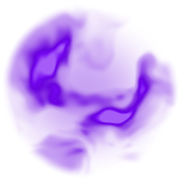
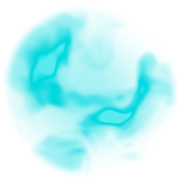
Colours: primary #00eaf1, secondary #f9f4f4, buttons #ff68b6 (Color studio)

diff --git a/app/globals.css b/app/globals.css
@@ -62,9 +62,9 @@
  * Dark-first: výchozí je tmavé téma. Slider v rohu mění --brand-h / --brand-c.
  */
 :root {
-  --brand-h: 291.9;
-  --brand-c: 0.2919;
-  --brand-l-adj: -0.2549; /* ±0.08: posun světlosti akcentu (tlačítka, výplně, glow) */
+  --brand-h: 198.7;
+  --brand-c: 0.1447;
+  --brand-l-adj: 0.0708; /* ±0.08: posun světlosti akcentu (tlačítka, výplně, glow) */
 
   --brand: oklch(calc(0.78 + var(--brand-l-adj)) var(--brand-c) var(--brand-h));
   --brand-strong: oklch(calc(0.7 + var(--brand-l-adj)) var(--brand-c) var(--brand-h));
@@ -75,22 +75,22 @@
   --on-brand: oklch(0.2 0.02 var(--brand-h));
 
   /* Barva tlačítek a barevných nadpisů. Výchozí = primární; Color studio ji umí nastavit zvlášť. */
-  --cta-h: 221.9;
-  --cta-c: 0.1468;
-  --cta-l-adj: 0.0149;
+  --cta-h: 351.1;
+  --cta-c: 0.1994;
+  --cta-l-adj: -0.0522;
   --cta: oklch(calc(0.78 + var(--cta-l-adj)) var(--cta-c) var(--cta-h));
   --cta-text: var(--cta);
 
   /* Sekundární barva: jen decentní doplněk (čísla sekcí, hover šedých tlačítek, FAQ ikona,
      výběr textu). Nikdy ve stejném prvku jako primární. */
-  --sec: #ffffff;
+  --sec: #f9f4f4;
   --sec-deep: color-mix(in oklab, var(--sec) 70%, black);
   --sec-text: var(--sec);
 
   /* Tmavé téma (výchozí) */
   /* Pozadí: světlost / sytost / odstín jedné barvy (Color studio), ostatní neutrály jsou její odvozeniny */
-  --bgd-l: 0.252;
-  --bgd-c: 0;
+  --bgd-l: 0.165;
+  --bgd-c: 0.0017;
   --bgd-h: 0;
   --bgl-l: 0.9194;
   --bgl-c: 0.0395;

diff --git a/components/ColorStudio.tsx b/components/ColorStudio.tsx
@@ -16,7 +16,7 @@ import { makePack, updateFavicon } from '@/lib/brandAssets';
 
 const KEY = 'brand-v6';
 type Brand = { p: string; s: string; h: number; c: number; l: number; bd: string; bl: string; a: string };
-const DEF: Brand = { p: '#7a05ff', s: '#ffffff', h: 291.9, c: 0.2919, l: -0.2549, bd: '#222222', bl: '#dfe2ff', a: '#00d0ff' };
+const DEF: Brand = { p: '#00eaf1', s: '#f9f4f4', h: 198.7, c: 0.1447, l: 0.0708, bd: '#0f0e0e', bl: '#dfe2ff', a: '#ff68b6' };
 const BG_KEY = 'brand-bg-v1'; // spočítané CSS proměnné pozadí; layout.tsx je obnoví před prvním vykreslením
 
 const round = (n: number, d = 3) => +n.toFixed(d);
